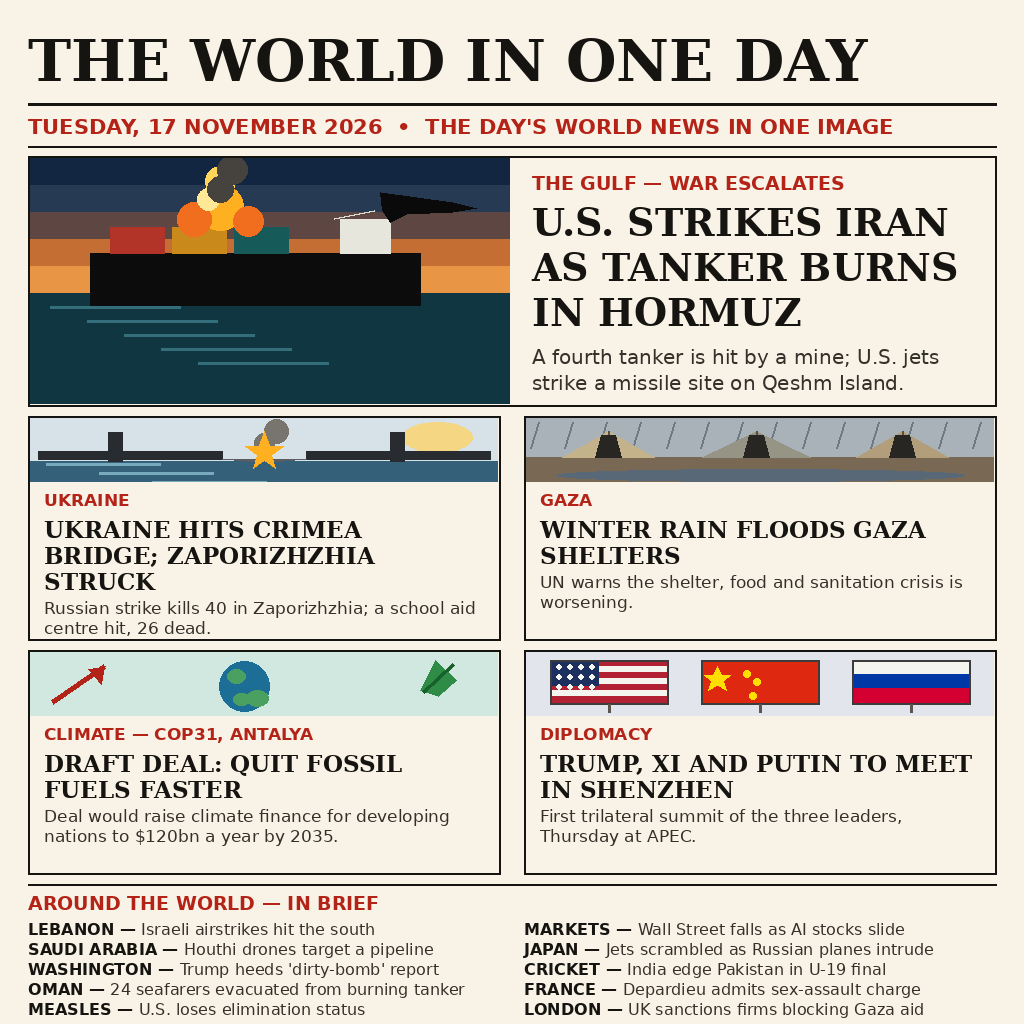
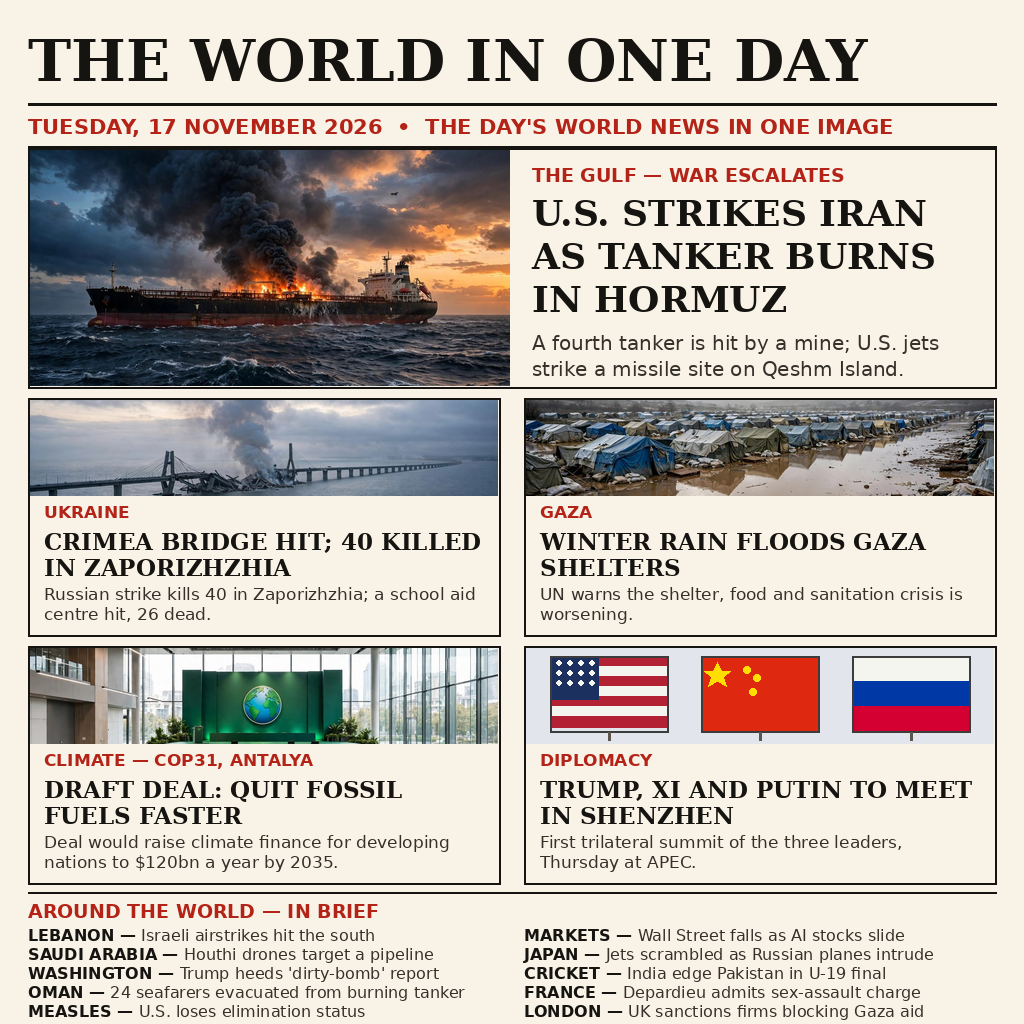
Perbarui draw_news.py, entry.png, dan NOTES.md ke v3 serta tambahkan foto

diff --git a/draw_news.py b/draw_news.py
@@ -1,10 +1,11 @@
 """Draw the 17 November 2026 world-news summary as one 1024x1024 PNG.
 
-Newspaper front-page layout, drawn with Pillow only: flat illustrations,
+Newspaper front-page layout, drawn with Pillow only: photorealistic
+illustrations (AI-generated, held in this repository as photo_*.jpg),
 big serif headlines, short decks. No network, no randomness, no clock:
-running this twice writes byte-identical output. Every illustration is
-drawn on its own layer and pasted, so nothing can spill over a panel edge,
-and every text block is sized to fit inside its panel.
+running this twice writes byte-identical output. Every photo is cropped
+to its panel slot, so nothing can spill over a panel edge, and every text
+block is sized to fit inside its panel.
 
 Stories (all reported on Tuesday 17 November 2026):
   hero   US strikes Iran / tanker burning in the Strait of Hormuz
@@ -71,102 +72,24 @@ def paste_illo(img, fn, x, y, w, h):
     img.paste(layer, (x, y))
 
 
+def fit_photo(path, w, h, y_bias=0.5):
+    """Crop a photo to the slot's aspect (vertical bias picks the band),
+    then resize to the slot. Deterministic: same file, same bytes."""
+    src = Image.open(path).convert("RGB")
+    sw, sh = src.size
+    th = int(sw * h / w)
+    if th > sh:  # source narrower than the slot: crop width instead
+        tw = int(sh * w / h)
+        x0 = int((sw - tw) * 0.5)
+        y0 = 0
+    else:
+        tw = sw
+        x0 = 0
+        y0 = int((sh - th) * y_bias)
+    return src.crop((x0, y0, x0 + tw, y0 + th)).resize((w, h), Image.LANCZOS)
+
+
 # ---------------------------------------------------------------- illustrations
-
-def illo_hormuz(d, x, y, w, h):
-    """Dusk over the Strait of Hormuz: burning tanker, smoke, jet overhead."""
-    bands = [(18, 38, 66), (38, 58, 84), (94, 70, 66), (196, 110, 52), (232, 150, 70)]
-    bh = h * 0.55 / len(bands)
-    for i, c in enumerate(bands):
-        d.rectangle([x, y + i * bh, x + w, y + (i + 1) * bh + 1], fill=c)
-    hy = y + h * 0.55
-    d.rectangle([x, hy, x + w, y + h], fill=(16, 54, 66))
-    for i in range(5):
-        yy = hy + 14 + i * 14
-        d.line([(x + 20 + i * 37, yy), (x + 150 + i * 37, yy)], fill=(52, 110, 122), width=3)
-    tx, ty = x + 60, hy - 40
-    d.rectangle([tx, ty, tx + 330, ty + 52], fill=(12, 12, 12))
-    d.rectangle([tx + 250, ty - 34, tx + 300, ty], fill=(230, 230, 220))
-    for i, c in enumerate([(178, 52, 40), (201, 138, 27), (22, 90, 90)]):
-        d.rectangle([tx + 20 + i * 62, ty - 26, tx + 74 + i * 62, ty], fill=c)
-    fx = tx + 130
-    for (dx, dy, s, c) in [(0, 0, 46, (255, 176, 32)), (-26, 12, 34, (240, 110, 30)),
-                           (28, 14, 30, (240, 110, 30)), (0, -26, 30, (255, 214, 90)),
-                           (-12, -8, 22, (255, 232, 150))]:
-        d.ellipse([fx + dx - s // 2, ty - 46 + dy - s // 2,
-                   fx + dx + s // 2, ty - 46 + dy + s // 2], fill=c)
-    # two small smoke puffs that stay inside the box
-    for (dx, dy, s) in [(0, -24, 26), (12, -44, 30)]:
-        d.ellipse([fx + dx - s // 2, ty - 40 + dy - s // 2,
-                   fx + dx + s // 2, ty - 40 + dy + s // 2], fill=(70, 66, 62))
-    jx, jy = x + w - 130, y + 34
-    d.polygon([(jx, jy), (jx + 72, jy + 10), (jx + 96, jy + 16), (jx + 72, jy + 20),
-               (jx + 26, jy + 22), (jx + 10, jy + 30), (jx + 2, jy + 18)], fill=(10, 10, 10))
-    d.line([(jx - 46, jy + 26), (jx - 6, jy + 18)], fill=(220, 220, 210), width=2)
-
-
-def illo_bridge(d, x, y, w, h):
-    """A bridge broken in the middle, smoke rising from the gap."""
-    d.rectangle([x, y, x + w, y + h], fill=(214, 226, 232))
-    d.ellipse([x + w - 96, y + 4, x + w - 26, y + 34], fill=(245, 214, 130))
-    d.rectangle([x, y + h * 0.68, x + w, y + h], fill=(52, 96, 122))
-    for i in range(4):
-        yy = y + h * 0.72 + i * 9
-        d.line([(x + 16 + i * 53, yy), (x + 130 + i * 53, yy)], fill=(120, 170, 190), width=3)
-    mid = x + w // 2
-    deck = y + h * 0.52
-    for tx in (x + 78, x + w - 108):
-        d.rectangle([tx, y + 14, tx + 14, y + h * 0.68], fill=(40, 44, 48))
-    d.rectangle([x + 8, deck, mid - 42, deck + 8], fill=(40, 44, 48))
-    d.rectangle([mid + 42, deck, x + w - 8, deck + 8], fill=(40, 44, 48))
-    d.polygon([(mid - 42, deck + 8), (mid + 42, deck + 8),
-               (mid + 18, y + h * 0.68), (mid - 18, y + h * 0.68)], fill=(90, 94, 98))
-    for (dx, dy, s) in [(0, -8, 20), (12, -20, 24)]:
-        d.ellipse([mid + dx - s // 2, deck + dy - s // 2,
-                   mid + dx + s // 2, deck + dy + s // 2], fill=(120, 116, 110))
-    d.polygon([(mid, deck - 20), (mid + 5, deck - 6), (mid + 19, deck - 5),
-               (mid + 7, deck + 4), (mid + 11, deck + 17),
-               (mid, deck + 9), (mid - 11, deck + 17),
-               (mid - 7, deck + 4), (mid - 19, deck - 5),
-               (mid - 5, deck - 6)], fill=(255, 176, 32))
-
-
-def illo_gaza(d, x, y, w, h):
-    """Rain over tents: grey sky, diagonal rain, three tents, puddle."""
-    d.rectangle([x, y, x + w, y + h], fill=(168, 178, 184))
-    for i in range(14):
-        rx = x + 12 + i * 34
-        d.line([(rx, y + 4), (rx - 8, y + 30)], fill=(110, 122, 130), width=2)
-    gy = y + h * 0.62
-    d.rectangle([x, gy, x + w, y + h], fill=(120, 104, 84))
-    d.ellipse([x + 30, gy + 12, x + w - 30, gy + 24], fill=(88, 104, 118))
-    th = int(h * 0.42)
-    tents = [(x + 36, 92, (196, 178, 138)), (x + 176, 108, (150, 148, 132)),
-             (x + 330, 92, (178, 158, 122))]
-    for tx, tw, c in tents:
-        d.polygon([(tx, gy), (tx + tw // 2, gy - th), (tx + tw, gy)], fill=c)
-        d.line([(tx + tw // 2, gy - th), (tx + tw // 2, gy)], fill=(90, 78, 60), width=2)
-        d.polygon([(tx + tw // 2 - 13, gy), (tx + tw // 2 + 13, gy),
-                   (tx + tw // 2 + 7, gy - 22), (tx + tw // 2 - 7, gy - 22)],
-                  fill=(40, 38, 34))
-
-
-def illo_climate(d, x, y, w, h):
-    """Globe with a leaf, and a rising arrow: the COP31 climate deal."""
-    d.rectangle([x, y, x + w, y + h], fill=(208, 232, 224))
-    cx, cy, r = x + w // 2 - 20, y + h // 2 + 2, int(h * 0.4)
-    d.ellipse([cx - r, cy - r, cx + r, cy + r], fill=(28, 110, 150))
-    d.ellipse([cx - r + 8, cy - r + 8, cx - r + 26, cy - r + 22], fill=(74, 160, 96))
-    d.ellipse([cx + 2, cy + 4, cx + 24, cy + 20], fill=(74, 160, 96))
-    d.ellipse([cx - r + 14, cy + r - 18, cx - r + 30, cy + r - 6], fill=(74, 160, 96))
-    lx, ly = x + w - 78, y + 8
-    d.polygon([(lx, ly + 30), (lx + 15, ly), (lx + 36, ly + 20), (lx + 18, ly + 36)],
-              fill=(46, 140, 70))
-    d.line([(lx + 3, ly + 32), (lx + 33, ly + 4)], fill=(24, 96, 44), width=3)
-    ax = x + 22
-    d.line([(ax, y + h - 14), (ax + 52, y + 14)], fill=RED, width=5)
-    d.polygon([(ax + 52, y + 14), (ax + 36, y + 17), (ax + 49, y + 32)], fill=RED)
-
 
 def illo_summit(d, x, y, w, h):
     """Three flags side by side: United States, China, Russia."""
@@ -200,13 +123,17 @@ def illo_summit(d, x, y, w, h):
 
 # ---------------------------------------------------------------- layout
 
-ILLO_H = 64
+PHOTO_H = 96
 
 
-def story_panel(img, d, x, y, w, h, kicker, headline, deck, illo):
+def story_panel(img, d, x, y, w, h, kicker, headline, deck, photo=None,
+                photo_bias=0.5, illo=None):
     d.rectangle([x, y, x + w, y + h], outline=INK, width=2)
-    paste_illo(img, illo, x + 2, y + 2, w - 4, ILLO_H)
-    ty = y + ILLO_H + 10
+    if photo:
+        img.paste(fit_photo(photo, w - 4, PHOTO_H, photo_bias), (x + 2, y + 2))
+    else:
+        paste_illo(img, illo, x + 2, y + 2, w - 4, PHOTO_H)
+    ty = y + PHOTO_H + 8
     d.text((x + 16, ty), kicker, font=font(SANS_B, 17), fill=RED)
     ty += 26
     ty = para(d, x + 16, ty, headline, font(SERIF_B, 23), INK, w - 32, 26)
@@ -225,46 +152,46 @@ def main():
            font=font(SANS_B, 21), fill=RED)
     rule(d, mx, 146, W - 2 * mx, width=2)
 
-    # hero: illustration left, headline right
-    hx, hy, hw, hh = mx, 156, W - 2 * mx, 250
+    # hero: photo left, headline right
+    hx, hy, hw, hh = mx, 148, W - 2 * mx, 240
     d.rectangle([hx, hy, hx + hw, hy + hh], outline=INK, width=2)
-    paste_illo(img, illo_hormuz, hx + 2, hy + 2, 480, hh - 4)
+    img.paste(fit_photo("photo_hero.jpg", 480, hh - 4), (hx + 2, hy + 2))
     tx = hx + 504
     tw = hw - 504 - 20
     d.text((tx, hy + 16), "THE GULF — WAR ESCALATES", font=font(SANS_B, 19), fill=RED)
     y = para(d, tx, hy + 44, "U.S. STRIKES IRAN AS TANKER BURNS IN HORMUZ",
-             font(SERIF_B, 38), INK, tw, 45)
+             font(SERIF_B, 36), INK, tw, 43)
     para(d, tx, y + 10,
          "A fourth tanker is hit by a mine; U.S. jets strike a missile site "
          "on Qeshm Island.",
          font(SANS, 20), (52, 48, 42), tw, 26)
 
     # row 2
-    y2, rh2 = 416, 224
+    y2, rh2 = 398, 238
     pw = (W - 2 * mx - 24) // 2
     story_panel(img, d, mx, y2, pw, rh2, "UKRAINE",
-                "UKRAINE HITS CRIMEA BRIDGE; ZAPORIZHZHIA STRUCK",
+                "CRIMEA BRIDGE HIT; 40 KILLED IN ZAPORIZHZHIA",
                 "Russian strike kills 40 in Zaporizhzhia; a school aid centre hit, 26 dead.",
-                illo_bridge)
+                photo="photo_ukraine.jpg")
     story_panel(img, d, mx + pw + 24, y2, pw, rh2, "GAZA",
                 "WINTER RAIN FLOODS GAZA SHELTERS",
                 "UN warns the shelter, food and sanitation crisis is worsening.",
-                illo_gaza)
+                photo="photo_gaza.jpg")
 
     # row 3
-    y3, rh3 = 650, 224
+    y3, rh3 = 646, 238
     story_panel(img, d, mx, y3, pw, rh3, "CLIMATE — COP31, ANTALYA",
                 "DRAFT DEAL: QUIT FOSSIL FUELS FASTER",
                 "Deal would raise climate finance for developing nations "
                 "to $120bn a year by 2035.",
-                illo_climate)
+                photo="photo_climate.jpg", photo_bias=0.35)
     story_panel(img, d, mx + pw + 24, y3, pw, rh3, "DIPLOMACY",
                 "TRUMP, XI AND PUTIN TO MEET IN SHENZHEN",
                 "First trilateral summit of the three leaders, Thursday at APEC.",
-                illo_summit)
+                illo=illo_summit)
 
     # briefs: ten more stories from the day, two columns, one line each
-    by = 884
+    by = 892
     rule(d, mx, by, W - 2 * mx, width=2)
     d.text((mx, by + 8), "AROUND THE WORLD — IN BRIEF",
            font=font(SANS_B, 19), fill=RED)
@@ -285,7 +212,7 @@ def main():
         col = i // 5
         row = i % 5
         bx = mx + col * (pw + 24)
-        byy = by + 36 + row * 20
+        byy = by + 34 + row * 19
         lead = place + " — "
         d.text((bx, byy), lead, font=lead_f, fill=INK)
         d.text((bx + d.textlength(lead, font=lead_f), byy), text,

diff --git a/NOTES.md b/NOTES.md
@@ -51,9 +51,18 @@ one-line briefs from around the world. Text is drawn with real fonts, not
 generated, so there is no garbled wording anywhere; the smallest type is
 16 px at 1024 px wide, still readable when the image is shown small.
 
+The four photographs are AI-generated illustrations of the reported
+scenes (a burning tanker, a damaged sea bridge, a flooded tent camp, a
+climate conference hall) — they illustrate what the reports described;
+they are not photographs of the actual events. The summit panel keeps
+drawn flags instead of generated faces of real leaders.
+
 ## Files
 
-- `entry.png` — the image (1024x1024, ~120 KiB).
+- `entry.png` — the image (1024x1024, ~547 KiB).
+- `photo_hero.jpg`, `photo_ukraine.jpg`, `photo_gaza.jpg`,
+  `photo_climate.jpg` — the AI-generated illustrations the script crops
+  into the hero and panel slots (960 px wide, JPEG).
 - `main.ts` — copies `entry.png` to the output directory; deterministic.
 - `draw_news.py` — the Pillow script that drew `entry.png` from scratch.
   Run it again and the bytes are identical.
